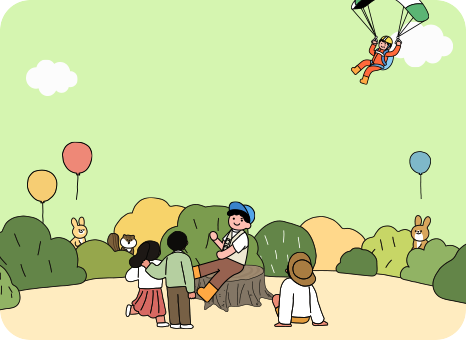
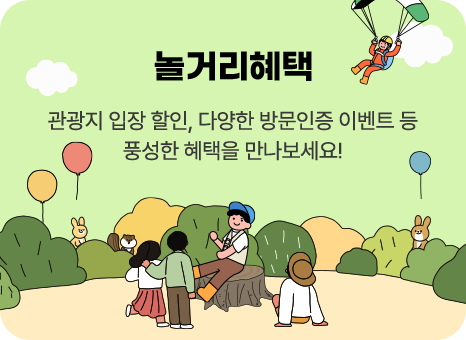
수정작업중

Changed region(s): [[0.0901, 0.3235, 0.9013, 0.3824], [0.3305, 0.1471, 0.691, 0.2353], [0.2704, 0.4118, 0.7511, 0.4706]]

diff --git a/__resource/scss/_layout.scss b/__resource/scss/_layout.scss
@@ -734,31 +734,35 @@ body {
             text-align: center;
         }
 
-        h4 {
-            padding-top: percentage(math.div(48, 322));
-            color: #000;
-            font-weight: 700;
-            font-size: 16px;
-            font-family: "GmarketSans", sans-serif;
-            line-height: 1;
+        h4, p {
+            @include visually-hidden;
+        }
 
-            @include media-queries($from: xl) {
-                padding-top: percentage(math.div(40, 374));
-                font-size: 28px;
-            }
+        h4 {
+            //padding-top: percentage(math.div(48, 322));
+            //color: #000;
+            //font-weight: 700;
+            //font-size: 16px;
+            //font-family: "GmarketSans", sans-serif;
+            //line-height: 1;
+            //
+            //@include media-queries($from: xl) {
+            //    padding-top: percentage(math.div(40, 374));
+            //    font-size: 28px;
+            //}
         }
 
         p {
-            margin-top: 6px;
-            color: #393939;
-            font-weight: $font-weight-regular;
-            font-size: 14px;
-            line-height: math.div(24, 18);
-
-            @include media-queries($from: xl) {
-                margin-top: 12px;
-                font-size: 17px;
-            }
+            //margin-top: 6px;
+            //color: #393939;
+            //font-weight: $font-weight-regular;
+            //font-size: 14px;
+            //line-height: math.div(24, 18);
+            //
+            //@include media-queries($from: xl) {
+            //    margin-top: 12px;
+            //    font-size: 17px;
+            //}
         }
 
         @include media-queries($from: md) {

diff --git a/__resource/scss/_main.scss b/__resource/scss/_main.scss
@@ -1338,6 +1338,7 @@
                     repeat: no-repeat;
                     size: cover;
                 }
+                border-radius: 32px;
             }
         }
 

diff --git a/src/main/java/kr/or/visitkorea/korean/global/util/Common.java b/src/main/java/kr/or/visitkorea/korean/global/util/Common.java
@@ -25,11 +25,11 @@ public class Common {
 		return new ArrayList<JSONObject>(){{
 			add(new JSONObject(){{ put("theme", "a"); put("title", "농어촌<br>/섬관광"); put("sub_title", "여행트렌드 1"); put("main_title", "농어촌/섬관광"); put("content", "엔데믹 이후 번잡하고 답답한 도시를 벗어나 휴식과 함께 새로운 경험, <br>잊지 못할 추억을 만드는 농어촌/섬 관광입니다."); }});
 			add(new JSONObject(){{ put("theme", "b"); put("title", "힐링<br>/웰니스"); put("sub_title", "여행트렌드 2"); put("main_title", "힐링/웰니스"); put("content", "일상에 지친 심신을 위로하고 치유하는 여행가는 달이 추천하는 <br>힐링/웰니스 관광입니다."); }});
-			add(new JSONObject(){{ put("theme", "c"); put("title", "친환경<br>여행"); put("sub_title", "여행트렌드 3"); put("main_title", "친환경여행"); put("content", "환경이슈에 대한 관심이 증가하는 추세에 맞추어 플로깅, <br>해변정화, 무동력 수단 이용 등 작지만 의미있는 탄소줄이기를 실천해"); }});
+			add(new JSONObject(){{ put("theme", "c"); put("title", "친환경<br>여행"); put("sub_title", "여행트렌드 3"); put("main_title", "친환경여행"); put("content", "환경이슈에 대한 관심이 증가하는 추세에 맞추어 플로깅, <br>해변정화, 무동력 수단 이용 등 작지만 의미있는 탄소줄이기를 실천해 보세요."); }});
 			add(new JSONObject(){{ put("theme", "d"); put("title", "살아보기여행<br>(생활관광)"); put("sub_title", "여행트렌드 4"); put("main_title", "살아보기여행<span>(생활관광)</span>"); put("content", "거주지가 아닌 다른 지역에서, 현지에서만 경험할 수 있는 먹거리와 볼거리, <br>문화를 즐기고, 현지인처럼 살아보는 듯한 감성을 느껴보는 여행입니다."); }});
-			add(new JSONObject(){{ put("theme", "e"); put("title", "열린<br>관광"); put("sub_title", "여행트렌드 5"); put("main_title", "열린관광"); put("content", "누구나 누릴 수 있는 모두를 위한 장애물 없는 관광 “열린관광”, <br>한국관광공사가 추천하는 열린관광지를 따라 편안하고 안전한 여행을 하세요"); }});
-			add(new JSONObject(){{ put("theme", "f"); put("title", "K-<br>CULTURE"); put("sub_title", "여행트렌드 6"); put("main_title", "K-Culture"); put("content", "케이팝, 드라마를 넘어 이제는 예능, 웹툰,뷰티, 패션까지. K-Culture는 계속해서 <br>확장하고 있습니다. K-Culture 200% 즐기러 떠나보세요!"); }});
-			add(new JSONObject(){{ put("theme", "g"); put("title", "스포츠<br>케이션"); put("sub_title", "여행트렌드 7"); put("main_title", "스포츠케이션"); put("content", "걷기, 등산 등 야외활동과 서핑, 열기구 등 국내 다양한 아웃도어 <br>레저여행을 알려드립니다."); }});
+			add(new JSONObject(){{ put("theme", "e"); put("title", "열린<br>관광"); put("sub_title", "여행트렌드 5"); put("main_title", "열린관광"); put("content", "누구나 누릴 수 있는 모두를 위한 장애물 없는 관광 “열린관광”, <br>열린관광지를 따라 편안하고 안전한 여행을 하세요."); }});
+			add(new JSONObject(){{ put("theme", "f"); put("title", "K-<br>CULTURE"); put("sub_title", "여행트렌드 6"); put("main_title", "K-Culture"); put("content", "케이팝, 드라마를 넘어 이제는 예술, 예능, 뷰티까지. K-Culture는 계속해서 <br>확장하고 있습니다. K-Culture 200% 즐기러 떠나보세요!"); }});
+			add(new JSONObject(){{ put("theme", "g"); put("title", "스포츠<br>케이션"); put("sub_title", "여행트렌드 7"); put("main_title", "스포츠케이션"); put("content", "걷기, 등산 등 야외활동과 서핑, 골프 등 국내 다양한 아웃도어 <br>레저여행을 알려드립니다."); }});
 			add(new JSONObject(){{ put("theme", "h"); put("title", "취미<br>여행"); put("sub_title", "여행트렌드 8"); put("main_title", "취미여행"); put("content", "나만의 취미를 여행과 함께 즐길 수 있습니다. <br>내 취미에 맞는 여행이 있는지 찾아보세요."); }});
 			add(new JSONObject(){{ put("theme", "i"); put("title", "미식<br>여행"); put("sub_title", "여행트렌드 9"); put("main_title", "미식여행"); put("content", "지역의 숨겨진 맛을 찾아 떠나는 오감만족 <br>식도락 미식여행입니다."); }});
 			add(new JSONObject(){{ put("theme", "j"); put("title", "반려동물<br>동반여행"); put("sub_title", "여행트렌드 10"); put("main_title", "반려동물동반여행"); put("content", "반려동물과 함께 행복한 추억을 쌓을 수 <br>있는 추천여행지를 소개합니다."); }});
